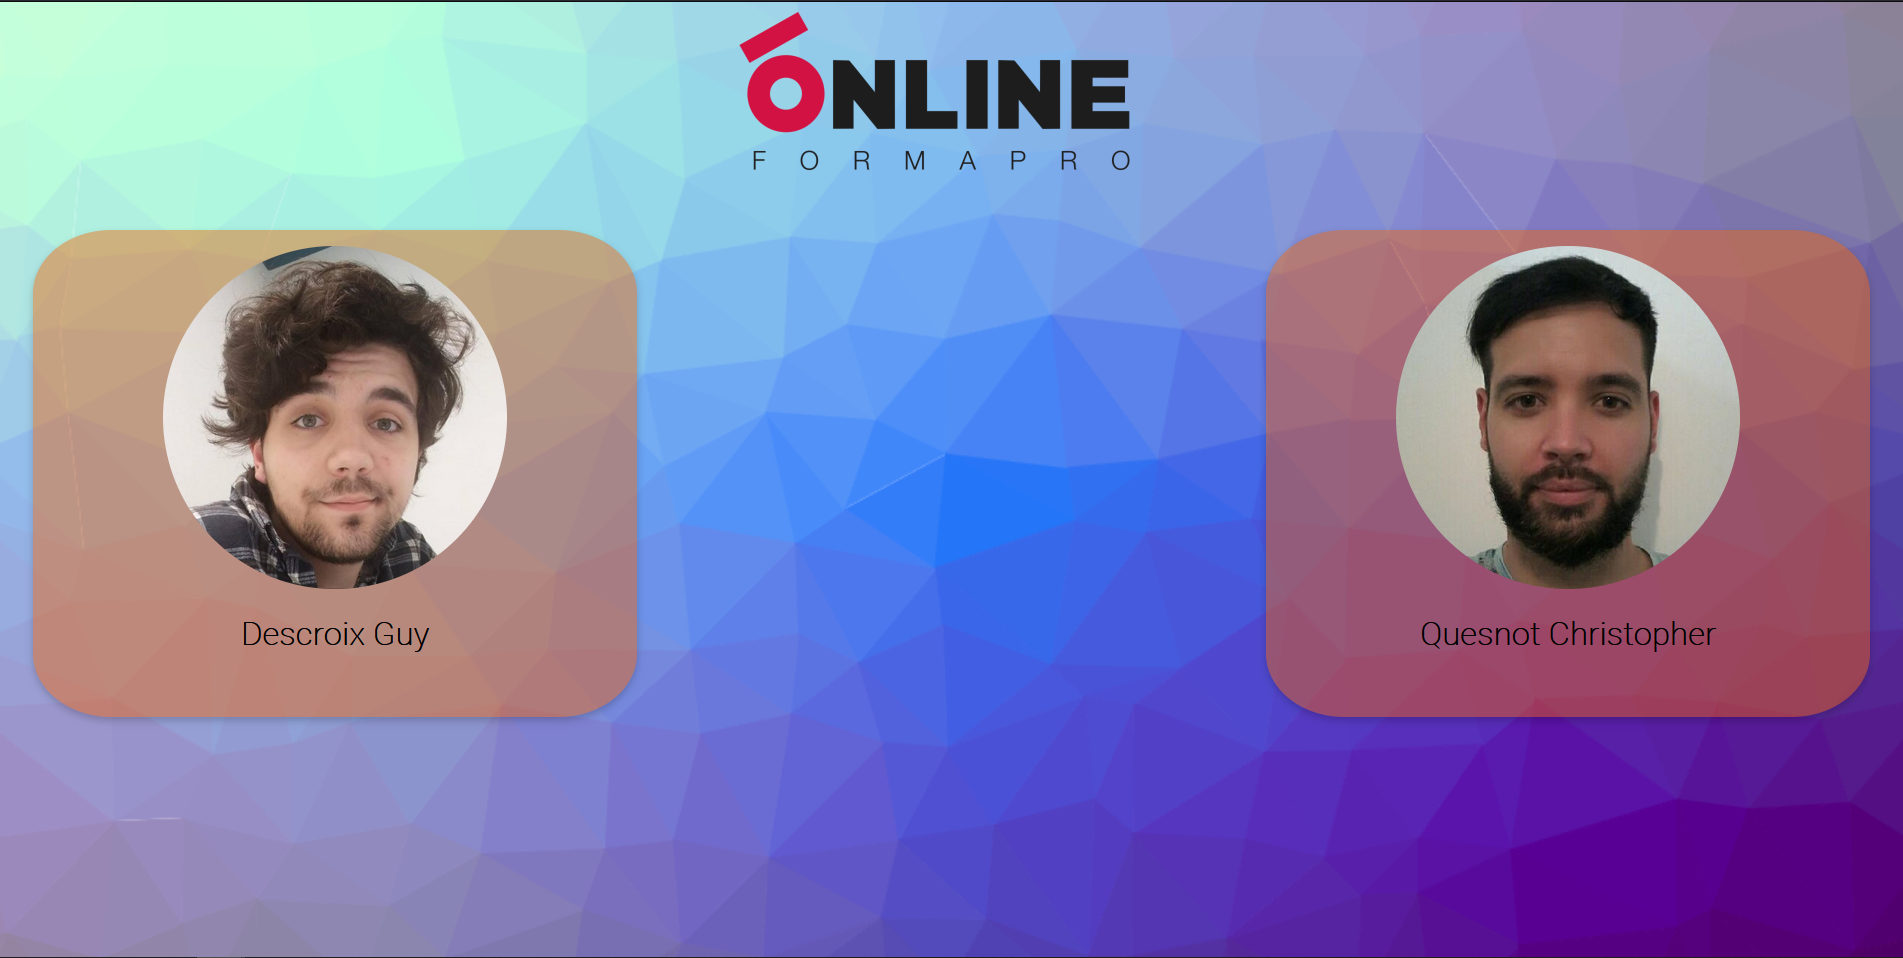
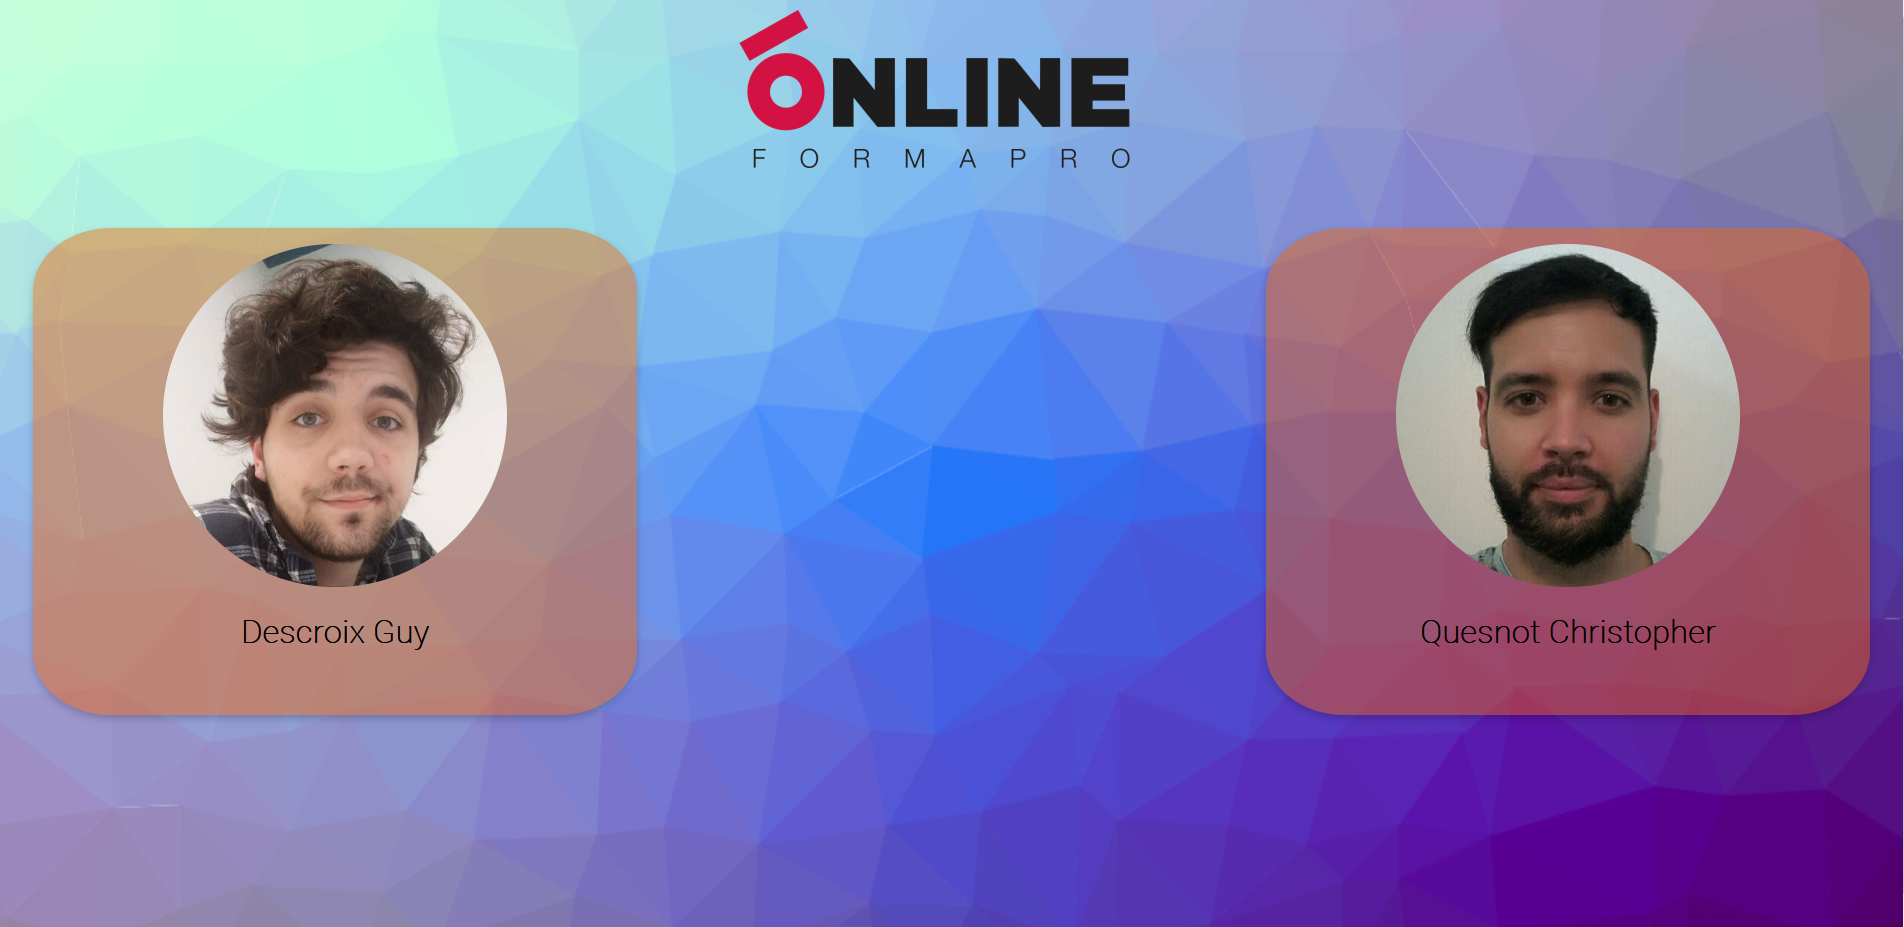
correction du format du carousel, ajout de 2 projets réalisés en groupe, ajout des liens sur lesdites images des projets

diff --git a/index.html b/index.html
@@ -7,7 +7,7 @@
     <meta name="viewport" content="width=device-width, initial-scale=1.0">
     <script src="./js/script.js" defer></script>
     <script src="./js/burger.js" defer></script>
-    <link rel="icon" href="./img/LogoGD.svg">
+    <link rel="icon" href="./img/favicon_GD.svg">
     <link rel="stylesheet" href="./css/style.css">
     <title>Portfolio</title>
 </head>
@@ -58,10 +58,14 @@
         <div class="diapo">
             <div class="elements">
                 <div class="element active">
-                    <img src="./img/Jour1Forma.png" alt="Image 1">
+                    <a href="https://gdescroix.github.io/projet_presentation/" target="_blank">
+                        <img src="./img/PrezGuyChris.png" alt="Image 2" class="img_diapo" width="100%">
+                    </a>
                 </div>
                 <div class="element">
-                    <img src="./img/PrezGuyChris.png" alt="Image 2">
+                    <a href="https://gdescroix.github.io/SaumHotel/" target="_blank">
+                        <img src="./img/Hotel_M-G.png" alt="Image 2" class="img_diapo" width="100%">
+                    </a>
                 </div>
             </div>
             <i id="nav-gauche" class="las la-chevron-left">&lt;</i>

diff --git a/css/style.css b/css/style.css
@@ -523,6 +523,11 @@ a:any-link {
 
 @media screen and (min-width: 1280px) {
 
+    .diapo {
+        margin-left: 2rem;
+        margin-right: 2rem;
+    }
+
     .menu {
         display: none;
     }
@@ -766,6 +771,11 @@ a:any-link {
 }
 
 @media screen and (min-width: 1600px) {
+    
+    .diapo {
+        margin-left: 3rem;
+        margin-right: 3rem;
+    }
 
     .c1c,
     .c7c,
